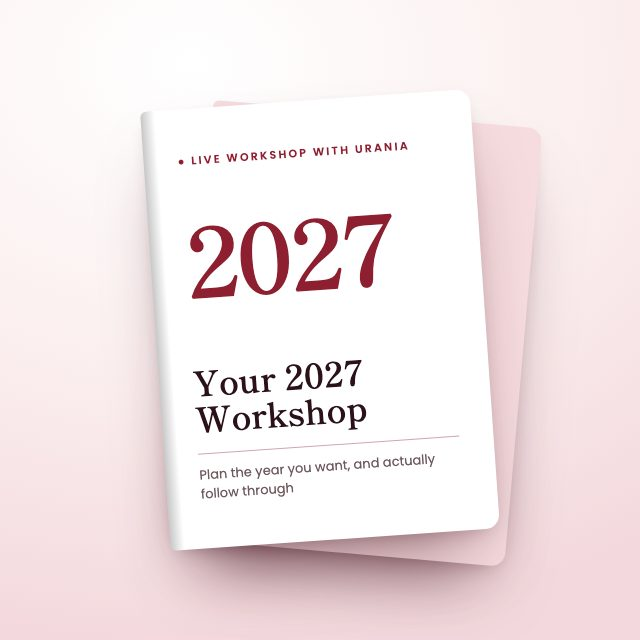
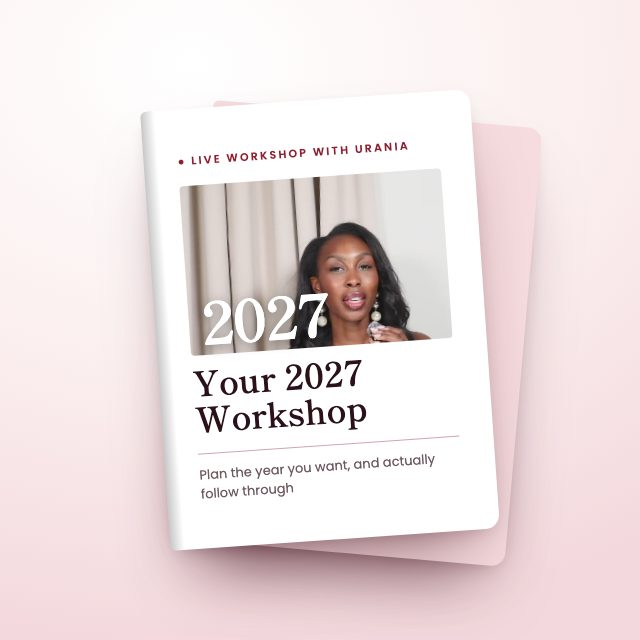
Collage shows all 8 modules; trim bonus copy to Josh length; exclusive / so much more

Changed region(s): [[0.2812, 0.25, 0.7188, 0.5625]]

diff --git a/index.html b/index.html
@@ -242,15 +242,15 @@ footer{padding:30px 20px 44px;text-align:center;font-size:13px;color:var(--mute)
       <p class="secure">Secure your spot today</p>
       <img class="bundle" src="img/bundle.jpg" alt="The program, the reprogramming session, the hypnosis sessions and the journal">
 
-      <div class="chk"><h3><span class="k">The From Survival to Softness™ 8-Week Program</span></h3><p>My flagship program, a step-by-step 4-stage method where I take you from survival mode to a soft, calm life in just 8 weeks. You'll discover which of the 3 Feminine Survival Archetypes is running your life, why your exhaustion is not a mindset problem but your nervous system (and how to calm it so you can finally receive), my Slow Morning System so you start your day calm instead of in chaos, how to lock in the feminine way and get more done with less force, how to say no without guilt, even to the people who count on you, how to rest without feeling like you have to earn it, the 2 ways women get stuck (overdrive and freeze) and how to get out of both, and your plan so you never slip back into survival mode. Plus the exact Soft Calendar I use to plan my own week, the Hard Week Protocol, a journal prompt for every day, 6 live coaching calls with me and a ton more, so you can finally stop running on empty and feel soft and feminine again. ($2,997 Value)</p></div>
+      <div class="chk"><h3><span class="k">The From Survival to Softness™ 8-Week Program</span></h3><p>My flagship 4-stage program, where I take you from survival mode to a soft, calm life in just 8 weeks. You'll discover which of the 3 Feminine Survival Archetypes is running your life, why your exhaustion is your nervous system and not a mindset problem, my Slow Morning System, how to say no without guilt, how to rest without feeling like you have to earn it, and how to never slip back into survival mode. Plus my Soft Calendar, the Hard Week Protocol, daily journal prompts, 6 live coaching calls with me and so much more. ($2,997 Value)</p></div>
 
-      <div class="chk"><h3><span class="k">BONUS #1:</span> Your Private 1:1 Subconscious Reprogramming Session With Me</h3><p>Just you and me for 45 minutes. Your head already knows you deserve rest, but the rest of you doesn't believe it yet. In this session we find the belief underneath it, like "I have to earn my rest", "I have to do it all alone" or "I have to be perfect to be loved", and we reprogram it. You pick what we work on: self-worth, receiving, love or money. ($397 Value)</p></div>
+      <div class="chk"><h3><span class="k">BONUS #1:</span> Your Private 1:1 Subconscious Reprogramming Session With Me</h3><p>Just you and me for 45 minutes. Your head already knows you deserve rest, but the rest of you doesn't believe it yet. Together we find the belief underneath it, like "I have to earn my rest" or "I have to do it all alone", and we reprogram it. ($397 Value)</p></div>
 
-      <div class="chk"><h3><span class="k">BONUS #2:</span> My Private Live 2027 Workshop: Plan The Year You Actually Want (And Follow Through This Time)</h3><p>In early January we meet live, and I walk you through closing 2026 and planning 2027 the soft way. Most women don't have a goal problem. They start January excited, push on hard mode, burn out by February and quit. In this workshop you build your year around your energy and your real calendar, so this is the year you actually follow through. Includes my 2026 Reflection Workbook. ($297 Value)</p></div>
+      <div class="chk"><h3><span class="k">BONUS #2:</span> My Private Live 2027 Workshop: Plan The Year You Actually Want (And Follow Through This Time)</h3><p>In early January we meet live, and I walk you through planning 2027 the soft way. Most women start January excited, push on hard mode and quit by February. This time you build your year around your energy and your real calendar, so you actually follow through. Includes my 2026 Reflection Workbook. ($297 Value)</p></div>
 
-      <div class="chk"><h3><span class="k">BONUS #3:</span> ALL 4 Soft Life Hypnosis Sessions + My Morning &amp; Evening Affirmations</h3><p>Get access to my 4 guided hypnosis sessions, one for every stage: Feel Safe To Rest, Receive Without Guilt, Let Go Of Control and I Am Enough As I Am. You listen in bed, and they work on the part of you that logic can't reach. You'll work on things like the guilt when you sit down, the racing thoughts at night, the need to control everything, people-pleasing, feeling like you're never enough and a ton more. My guided meditations have over 1 million views on YouTube, and these are made only for the women in this program. ($497 Value)</p></div>
+      <div class="chk"><h3><span class="k">BONUS #3:</span> ALL 4 Soft Life Hypnosis Sessions + My Morning &amp; Evening Affirmations</h3><p>My 4 guided hypnosis sessions, one for every stage, plus my morning and evening affirmations. They work on the part of you that logic can't reach: the guilt when you sit down, the racing thoughts at night, the need to control everything, people-pleasing and so much more. My meditations have over 1 million views on YouTube, and these are exclusive only for the women in this program. ($497 Value)</p></div>
 
-      <div class="chk"><h3><span class="k">BONUS #4:</span> Soft &amp; Magnetic: How To Stop Chasing Men, Stop "Toughening Up" On Dates &amp; Let Him Come To You</h3><p>This is my NEWEST training, built from my most popular dating videos, where I show you how to stop chasing, keep high standards without being hard, and finally let yourself receive. If you're single, dating, or in a relationship where you've become the one who does everything, this training will show you how to bring softness back into your love life. ($297 Value)</p></div>
+      <div class="chk"><h3><span class="k">BONUS #4:</span> Soft &amp; Magnetic: How To Stop Chasing Men, Stop "Toughening Up" On Dates &amp; Let Him Come To You</h3><p>This is my NEWEST training, built from my most popular dating videos. I show you how to stop chasing, keep high standards without being hard, and finally let yourself receive, whether you're single, dating or the one who does everything in your relationship. ($297 Value)</p></div>
 
       <div class="chk"><h3><span class="k">BONUS #5:</span> Pocket Urania: 8 Weeks Of Voice-Note Access To Me <span class="only">First 7 women only</span></h3><p>When something comes up on a Tuesday, you don't have to wait for the next call. Send me a voice note Monday to Friday and I answer within 24 hours, for all 8 weeks. Only 7 spots, because I answer every message myself. ($1,500 Value)</p></div>
 
